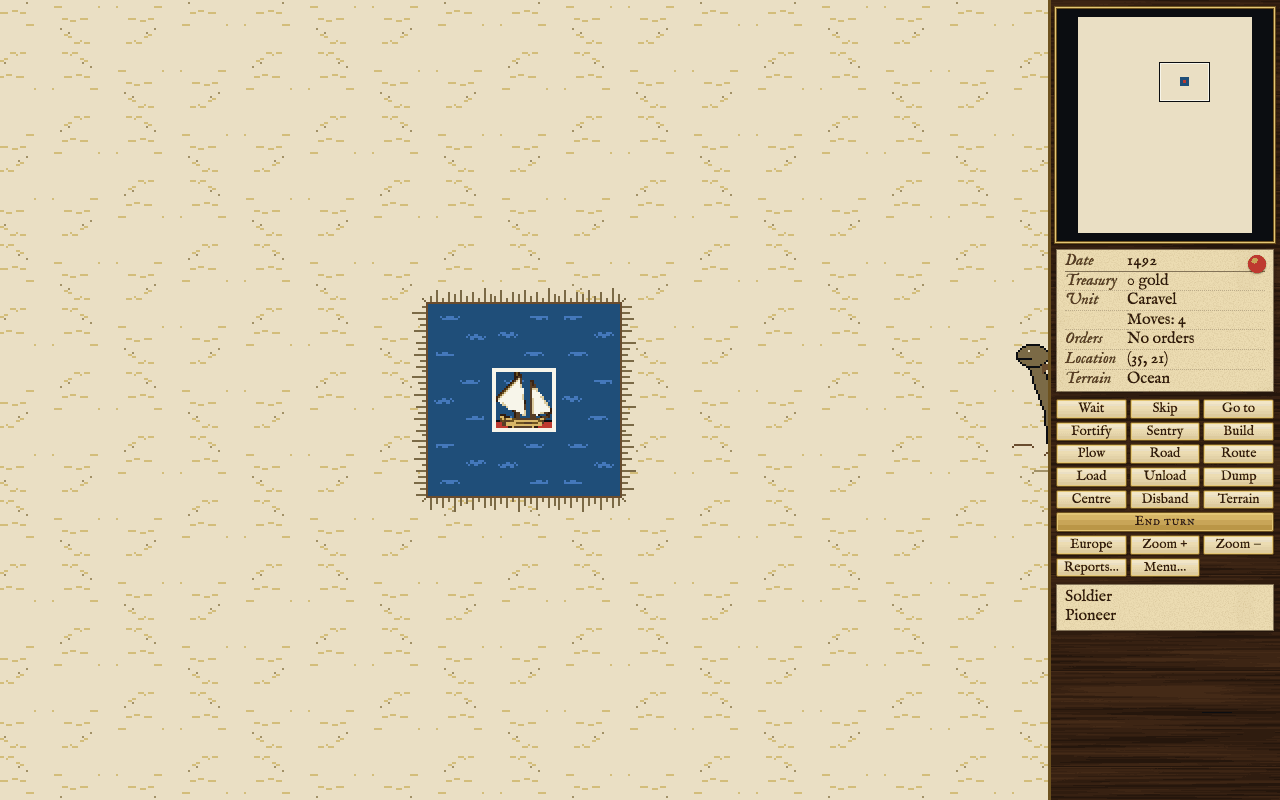
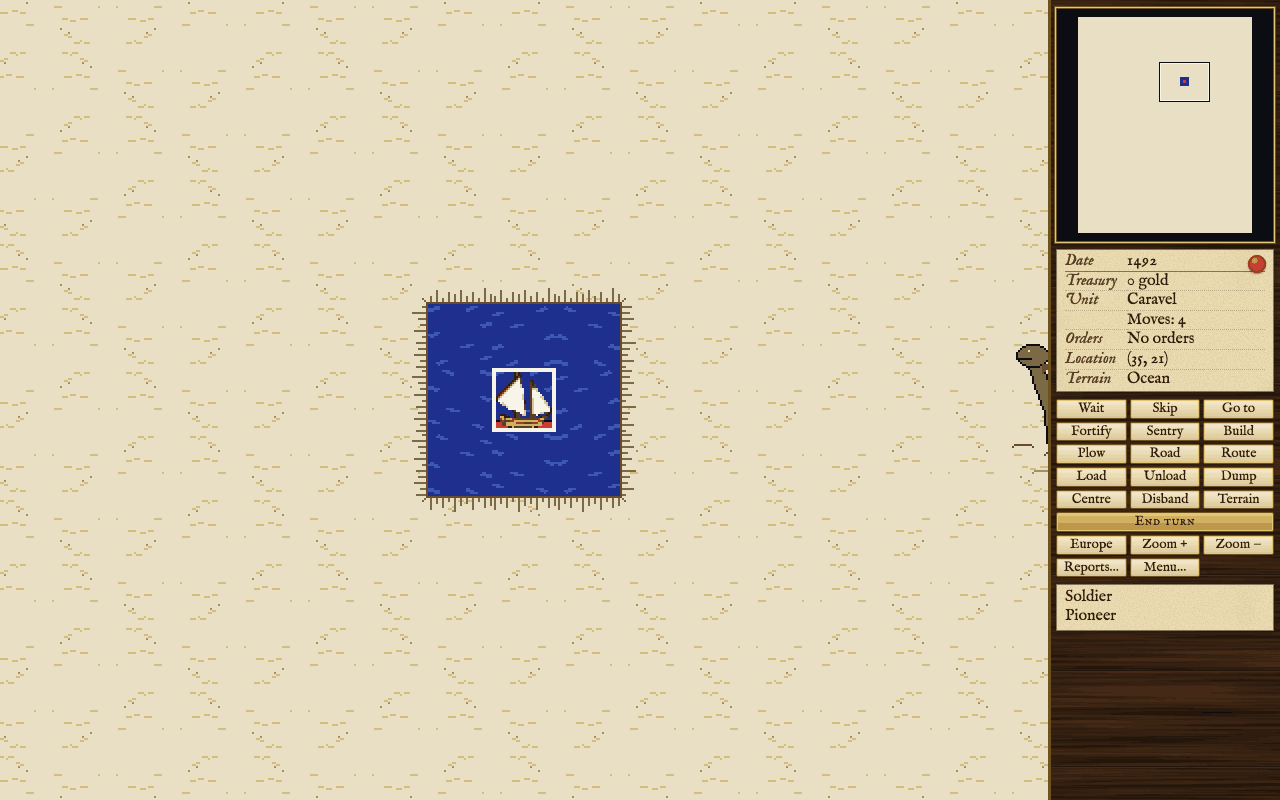
Workflow: mark the map art spec built and retake the manual's screenshots
All seven items of docs/specs/map-art-redesign.md have merged or are in this pull request, so its
status line says built. The manual's screens (wiki/images/screens) are retaken once with
WIKI_SHOTS=1 so that they show the new palette, ground, markers, seal, names and joins.

Changed region(s): [[0.3125, 0.375, 0.5, 0.625], [0.9688, 0.3125, 1.0, 0.3438]]

diff --git a/docs/specs/map-art-redesign.md b/docs/specs/map-art-redesign.md
@@ -1,6 +1,6 @@
 # Map art redesign: spec for R-1040 to R-1046
 
-Written by `/plan` on 2026-10-11. Status: proposed.
+Written by `/plan` on 2026-10-11. Status: built.
 
 **The request, in the owner's words:** the graphics are not up to snuff. The reference screenshot
 the owner supplied (a classic map of this kind at 32 pixels to the square) is much more cohesive,
